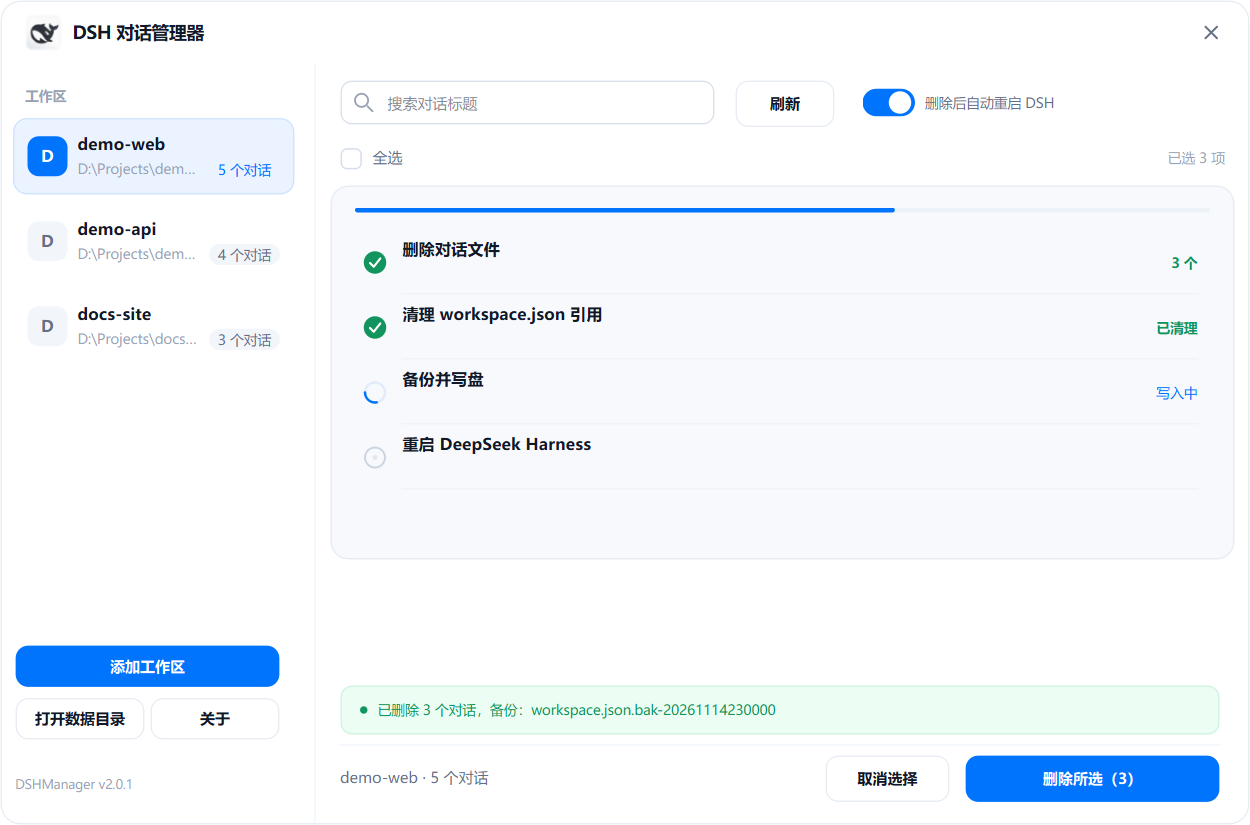
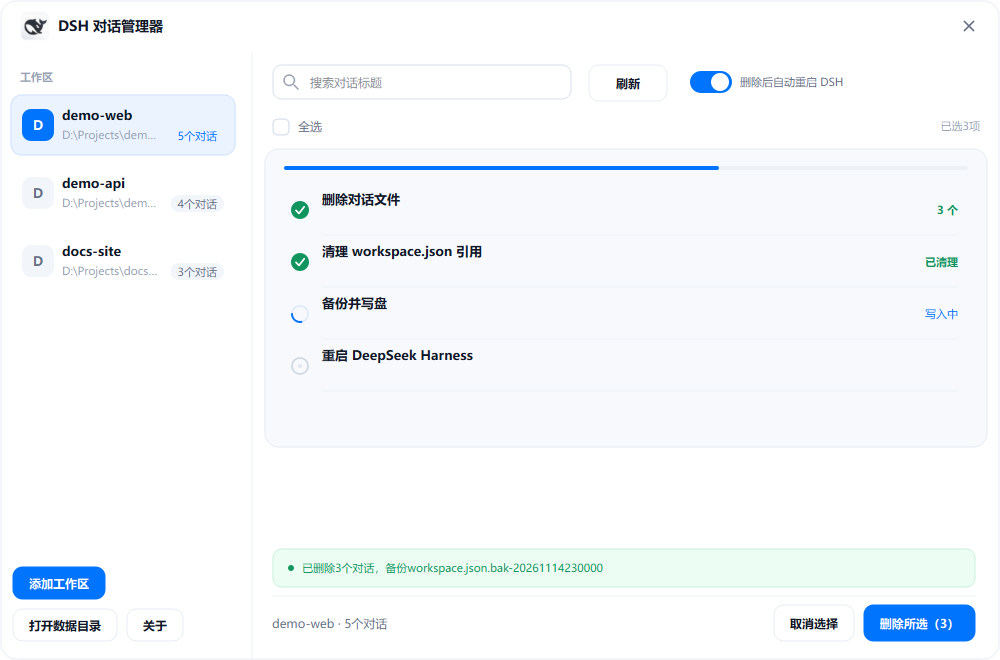
feat: v2.0.2 - aligned sidebar buttons, version moved to About, tighter text

diff --git a/source/src/dshmanager/ui_main.py b/source/src/dshmanager/ui_main.py
@@ -187,7 +187,7 @@ class WorkspaceCard(QWidget):
         meta_font = theme.font(8.0)
         metrics = QFontMetricsF(meta_font)
         count = len(self.workspace.sessions)
-        count_text = f"{count} 个对话" if count else "没有对话"
+        count_text = f"{count}个对话" if count else "没有对话"
         pill_w = metrics.horizontalAdvance(count_text) + 14
         pill_rect = QRectF(self.width() - 12 - pill_w, 33, pill_w, 17)
         pill_fill = theme.ACCENT_SOFT if self._selected else theme.SURFACE_STRONG
@@ -326,7 +326,7 @@ class DeleteWorker(QThread):
                 errors = store.delete_session_files(session)
                 result.errors.extend(errors)
                 result.deleted_sessions += 1
-            self.step.emit(0, StepState.DONE, f"{len(self.sessions)} 个")
+            self.step.emit(0, StepState.DONE, f"{len(self.sessions)}个")
 
             self.step.emit(1, StepState.WORKING, "清理中")
             data = store.load_json(wpath)
@@ -412,27 +412,27 @@ class MainWindow(ChromeWindow):
         self._sidebar_label.setGeometry(20, 66, 160, 22)
 
         self._cards_area, self._cards_body, self._cards_layout = make_scroll_area(self)
-        self._cards_area.setGeometry(10, 94, 232, 406)
+        self._cards_area.setGeometry(10, 94, 232, 462)
         self._cards_layout.setContentsMargins(0, 0, 6, 8)
         self._cards_layout.setSpacing(6)
         self._cards_layout.addStretch(1)
 
-        self._open_dir = FlatButton("打开数据目录", primary=False, parent=self, height=34)
-        self._open_dir.setGeometry(12, 558, 104, 32)
+        self._open_dir = FlatButton("打开数据目录", primary=False, parent=self, height=34, auto_width=True)
+        self._open_dir.fit_to_text()
+        self._open_dir.move(12, 608)
         self._open_dir.clicked.connect(self._open_data_dir)
 
-        self._about = FlatButton("关于", primary=False, parent=self, height=34)
-        self._about.setGeometry(120, 558, 104, 32)
+        self._about = FlatButton("关于", primary=False, parent=self, height=34, auto_width=True)
+        self._about.fit_to_text()
+        self._about.move(12 + self._open_dir.width() + 8, 608)
         self._about.clicked.connect(self._show_about)
 
-        self._add_ws = FlatButton("添加工作区", primary=True, parent=self, height=34)
-        self._add_ws.setGeometry(12, 516, 212, 34)
+        self._add_ws = FlatButton("添加工作区", primary=True, parent=self, height=34, auto_width=True)
+        self._add_ws.fit_to_text()
+        self._add_ws.move(12, 566)
         self._add_ws.clicked.connect(self._add_workspace_dialog)
 
-        self._version = QLabel("DSHManager v2.0.1", self)
-        self._version.setFont(theme.font(7.8))
-        self._version.setStyleSheet("color:#98A2B3;background:transparent;")
-        self._version.setGeometry(12, 618, 200, 18)
+
 
         # 右侧顶部
         self._search = SearchField(self)
@@ -509,14 +509,14 @@ class MainWindow(ChromeWindow):
         self._hint = QLabel("", self)
         self._hint.setFont(theme.font(8.8))
         self._hint.setStyleSheet("color:#667085;background:transparent;")
-        self._hint.setGeometry(272, 610, 420, 24)
+        self._hint.setGeometry(272, 609, 372, 28)
 
-        self._cancel_sel = FlatButton("取消选择", primary=False, parent=self)
+        self._cancel_sel = FlatButton("取消选择", primary=False, parent=self, auto_width=True)
         self._cancel_sel.setGeometry(660, 604, 100, 38)
         self._cancel_sel.clicked.connect(self._clear_selection)
         self._cancel_sel.set_enabled_state(False)
 
-        self._delete_btn = FlatButton("删除所选", primary=True, parent=self)
+        self._delete_btn = FlatButton("删除所选", primary=True, parent=self, auto_width=True)
         self._delete_btn.setGeometry(772, 604, 204, 38)
         self._delete_btn.clicked.connect(self._delete_selected)
         self._delete_btn.set_enabled_state(False)
@@ -556,8 +556,8 @@ class MainWindow(ChromeWindow):
             return
         if total:
             unregistered = [w for w in workspaces if w.unregistered]
-            suffix = f"（{len(unregistered)} 个未登记，可从卡片 ⋯ 菜单添加）" if unregistered else ""
-            self._set_banner(f"共 {len(workspaces)} 个工作区 · {total} 个对话" + suffix, BannerTone.INFO)
+            suffix = f"（{len(unregistered)}个未登记，可从卡片⋯菜单添加）" if unregistered else ""
+            self._set_banner(f"共{len(workspaces)}个工作区 · {total}个对话" + suffix, BannerTone.INFO)
         else:
             self._set_banner("还没有找到任何对话。", BannerTone.WARNING)
 
@@ -615,13 +615,17 @@ class MainWindow(ChromeWindow):
         self._delete_btn.set_text(f"删除所选（{n}）" if n else "删除所选")
         self._delete_btn.set_enabled_state(n > 0 and not self._busy)
         self._cancel_sel.set_enabled_state(n > 0)
-        self._sel_label.setText(f"已选 {n} 项" if n else "")
+        self._cancel_sel.fit_to_text()
+        delete_x = 976 - self._delete_btn.width()
+        self._delete_btn.move(delete_x, 604)
+        self._cancel_sel.move(delete_x - 8 - self._cancel_sel.width(), 604)
+        self._sel_label.setText(f"已选{n}项" if n else "")
         workspace = self._workspace(self.current_wid)
         if workspace is not None:
-            note = "　·　未登记到 DSH，可从卡片 ⋯ 菜单添加" if workspace.unregistered else ""
+            note = " · 未登记到DSH，可从卡片⋯菜单添加" if workspace.unregistered else ""
             if n == 0 and not workspace.unregistered:
-                note = "　·　数据目录 " + self.dsh_home
-            self._hint.setText(f"{workspace.title} · {len(workspace.sessions)} 个对话" + note)
+                note = " · 数据目录 " + self.dsh_home
+            self._hint.setText(f"{workspace.title} · {len(workspace.sessions)}个对话" + note)
         self._sync_select_all()
 
     def _sync_select_all(self) -> None:
@@ -716,7 +720,7 @@ class MainWindow(ChromeWindow):
             store.add_workspace(data, path, title, sids)
             store.atomic_write(self.store_path, store.dump_json(data))
             self._pinned = True
-            self._set_banner(f"已添加工作区「{title}」，关联 {len(sids)} 个对话", BannerTone.SUCCESS, pin=True)
+            self._set_banner(f"已添加工作区「{title}」，关联{len(sids)}个对话", BannerTone.SUCCESS, pin=True)
             self.refresh()
         except Exception as exc:  # noqa: BLE001
             self._last_details = repr(exc)
@@ -740,7 +744,7 @@ class MainWindow(ChromeWindow):
         items = [f"{s.title}（{s.rel_time}）" for s in sessions]
         dialog = ConfirmDialog(
             self,
-            f"删除 {len(sessions)} 个对话？",
+            f"删除{len(sessions)}个对话？",
             "会话日志和缓存会被永久删除，无法恢复。workspace.json 会在写入前自动备份一份。",
             items,
             confirm_label="删除",
@@ -773,7 +777,7 @@ class MainWindow(ChromeWindow):
         items = [f"{s.title}（{s.rel_time}）" for s in sessions[:8]]
         dialog = ConfirmDialog(
             self,
-            f"删除「{workspace.title}」的全部 {len(sessions)} 个对话？",
+            f"删除「{workspace.title}」的全部{len(sessions)}个对话？",
             "会话日志和缓存会被永久删除，无法恢复；工作区文件夹本身会保留。",
             items,
             confirm_label="全部删除",
@@ -816,11 +820,11 @@ class MainWindow(ChromeWindow):
         QTimer.singleShot(600, self._leave_progress)
         if result.errors:
             self._last_details = "\n".join(result.errors)
-            self._set_banner(f"完成，但有 {len(result.errors)} 个问题，点右侧查看详情。",
+            self._set_banner(f"完成，但有{len(result.errors)}个问题，点右侧查看详情。",
                              BannerTone.WARNING, "查看详情")
         else:
             self._set_banner(
-                f"已删除 {result.deleted_sessions} 个对话"
+                f"已删除{result.deleted_sessions}个对话"
                 + ("，并移除了工作区登记" if result.deleted_workspaces else "")
                 + ("，备份：{}".format(os.path.basename(result.backup)) if result.backup else ""),
                 BannerTone.SUCCESS,

diff --git a/source/src/dshmanager/widgets.py b/source/src/dshmanager/widgets.py
@@ -142,11 +142,12 @@ class GlyphButton(QWidget):
 class FlatButton(QWidget):
     clicked = Signal()
 
-    def __init__(self, text: str, primary: bool = False, parent: QWidget | None = None, height: int = 38, danger: bool = False):
+    def __init__(self, text: str, primary: bool = False, parent: QWidget | None = None, height: int = 38, danger: bool = False, auto_width: bool = False):
         super().__init__(parent)
         self._text = text
         self._primary = primary
         self._danger = danger
+        self._auto_width = auto_width
         self._hover = False
         self._pressed = False
         self._enabled = True
@@ -156,7 +157,14 @@ class FlatButton(QWidget):
 
     def set_text(self, text: str) -> None:
         self._text = text
+        if self._auto_width:
+            self.fit_to_text()
         self.update()
+
+    def fit_to_text(self, pad: int = 34, min_width: int = 56) -> None:
+        """按文字宽度定宽：字数相同的按钮会得到相同的长度。"""
+        metrics = QFontMetricsF(self.font())
+        self.setFixedWidth(max(min_width, int(metrics.horizontalAdvance(self._text)) + pad))
 
     def set_enabled_state(self, enabled: bool) -> None:
         self._enabled = enabled

diff --git a/source/src/dshmanager/model.py b/source/src/dshmanager/model.py
@@ -46,22 +46,22 @@ def rel_time(epoch: float) -> str:
     if delta < 60:
         return "刚刚"
     if delta < 3600:
-        return f"{int(delta // 60)} 分钟前"
+        return f"{int(delta // 60)}分钟前"
     if delta < 86400:
-        return f"{int(delta // 3600)} 小时前"
+        return f"{int(delta // 3600)}小时前"
     if delta < 86400 * 30:
-        return f"{int(delta // 86400)} 天前"
+        return f"{int(delta // 86400)}天前"
     return time.strftime("%Y-%m-%d", time.localtime(epoch))
 
 
 def human_size(size: int) -> str:
     if size < 1024:
-        return f"{size} B"
+        return f"{size}B"
     if size < 1024 * 1024:
-        return f"{size / 1024:.0f} KB"
+        return f"{size / 1024:.0f}KB"
     if size < 1024 * 1024 * 1024:
-        return f"{size / 1024 / 1024:.1f} MB"
-    return f"{size / 1024 / 1024 / 1024:.2f} GB"
+        return f"{size / 1024 / 1024:.1f}MB"
+    return f"{size / 1024 / 1024 / 1024:.2f}GB"
 
 
 def norm_path(value: str) -> str:

diff --git a/source/dev/shots.py b/source/dev/shots.py
@@ -37,7 +37,7 @@ def step1():
 
     dialog = ConfirmDialog(
         window,
-        "删除 3 个对话？",
+        "删除3个对话？",
         "会话日志和缓存会被永久删除，无法恢复。workspace.json 会在写入前自动备份一份。",
         [r.session.title for r in rows[:3]],
     )
@@ -54,7 +54,7 @@ def step2(dialog):
     window._steps[1].set_state("done", "已清理")
     window._steps[2].set_state("working", "写入中")
     window._bar.set_target(0.66)
-    window._set_banner("已删除 3 个对话，备份：workspace.json.bak-20261114230000", "success")
+    window._set_banner("已删除3个对话，备份workspace.json.bak-20261114230000", "success")
     QTimer.singleShot(300, lambda: (save(window, "04-progress.png"), app.quit()))
 
 

diff --git a/source/src/dshmanager/dialogs.py b/source/src/dshmanager/dialogs.py
@@ -111,7 +111,7 @@ class AboutDialog(ChromeDialog):
         title = _Label(self, "DSH 对话管理器", 13.0, True, theme.TEXT)
         title.setGeometry(28, 44, 460, 30)
 
-        sub = _Label(self, f"版本 {version}", 9.0, False, theme.MUTED)
+        sub = _Label(self, f"DSHManager v{version}", 9.0, False, theme.MUTED)
         sub.setGeometry(28, 78, 460, 22)
 
         body = _Label(

diff --git a/CHANGELOG.md b/CHANGELOG.md
@@ -1,5 +1,13 @@
 # Changelog
 
+## v2.0.2 — 2026-11-15
+
+### 变更
+- 侧栏左下角不再显示版本号，版本信息移入「关于」窗口。
+- 侧栏三个按钮与右侧动作栏按钮对齐到同一条底线。
+- 按钮宽度改为按文字宽度计算：字数相同的按钮长度一致。
+- 清理界面文字中多余的空格（如「13 个对话」改为「13个对话」）。
+
 ## v2.0.1 — 2026-11-15
 
 ### 修复
